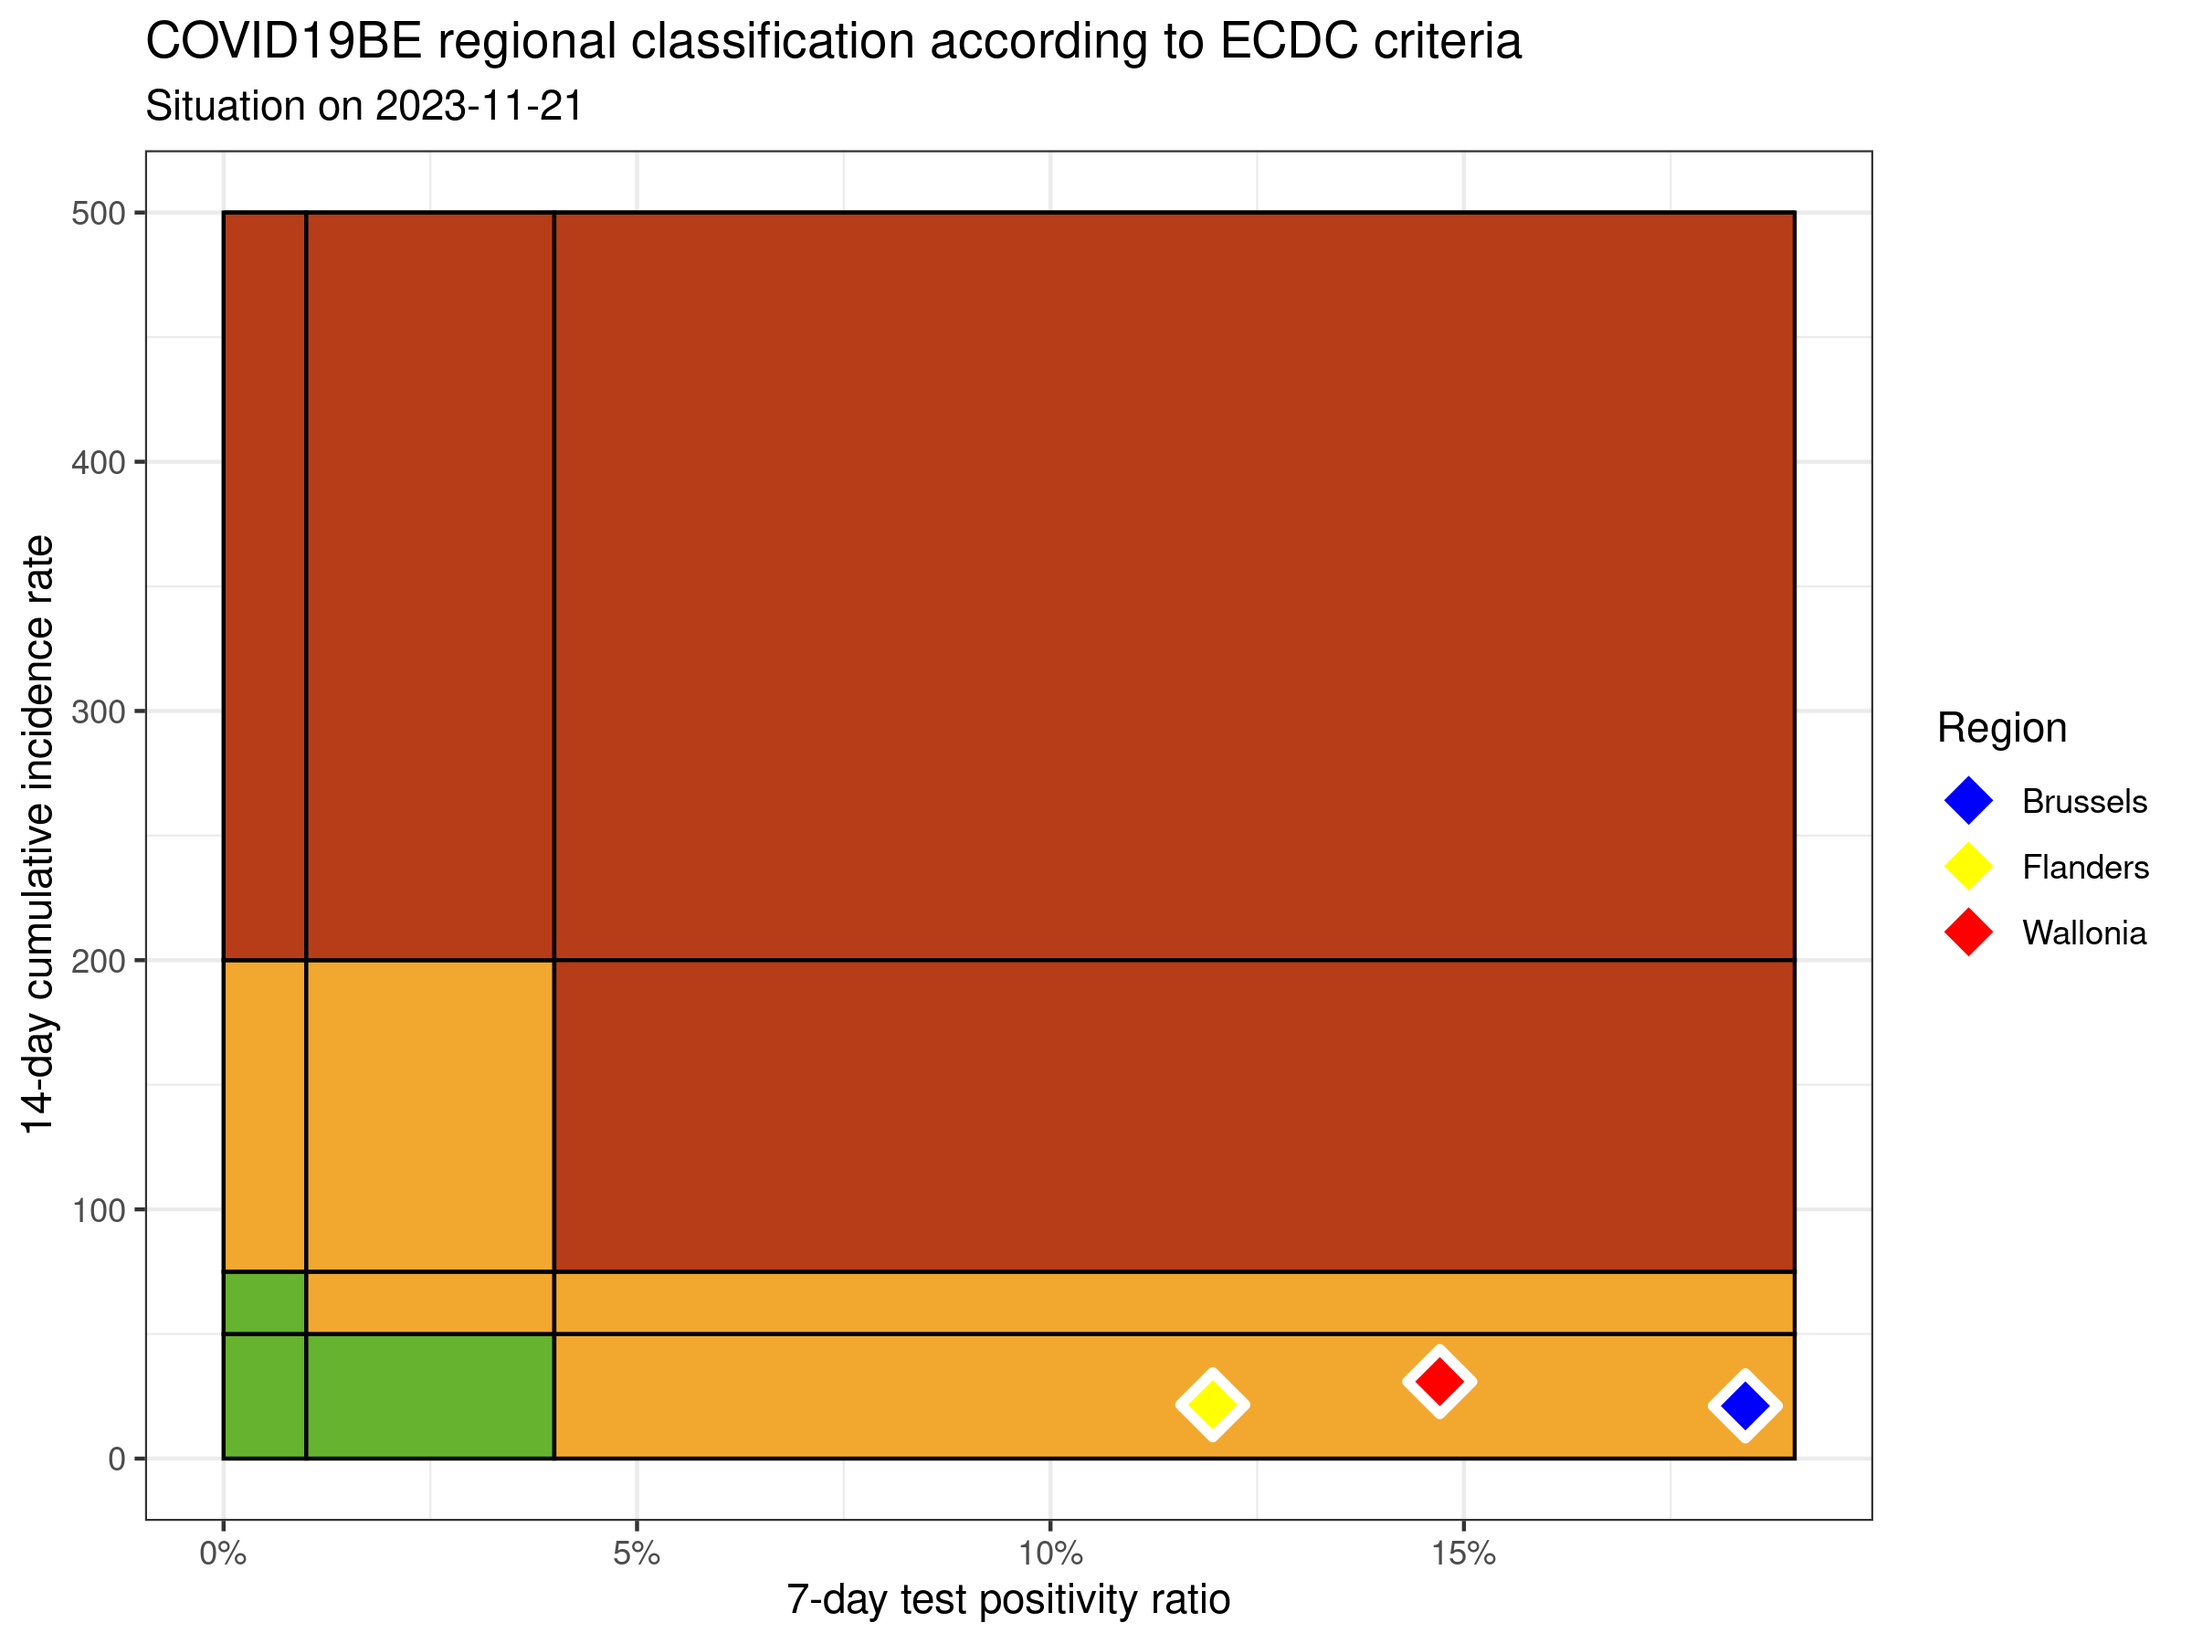
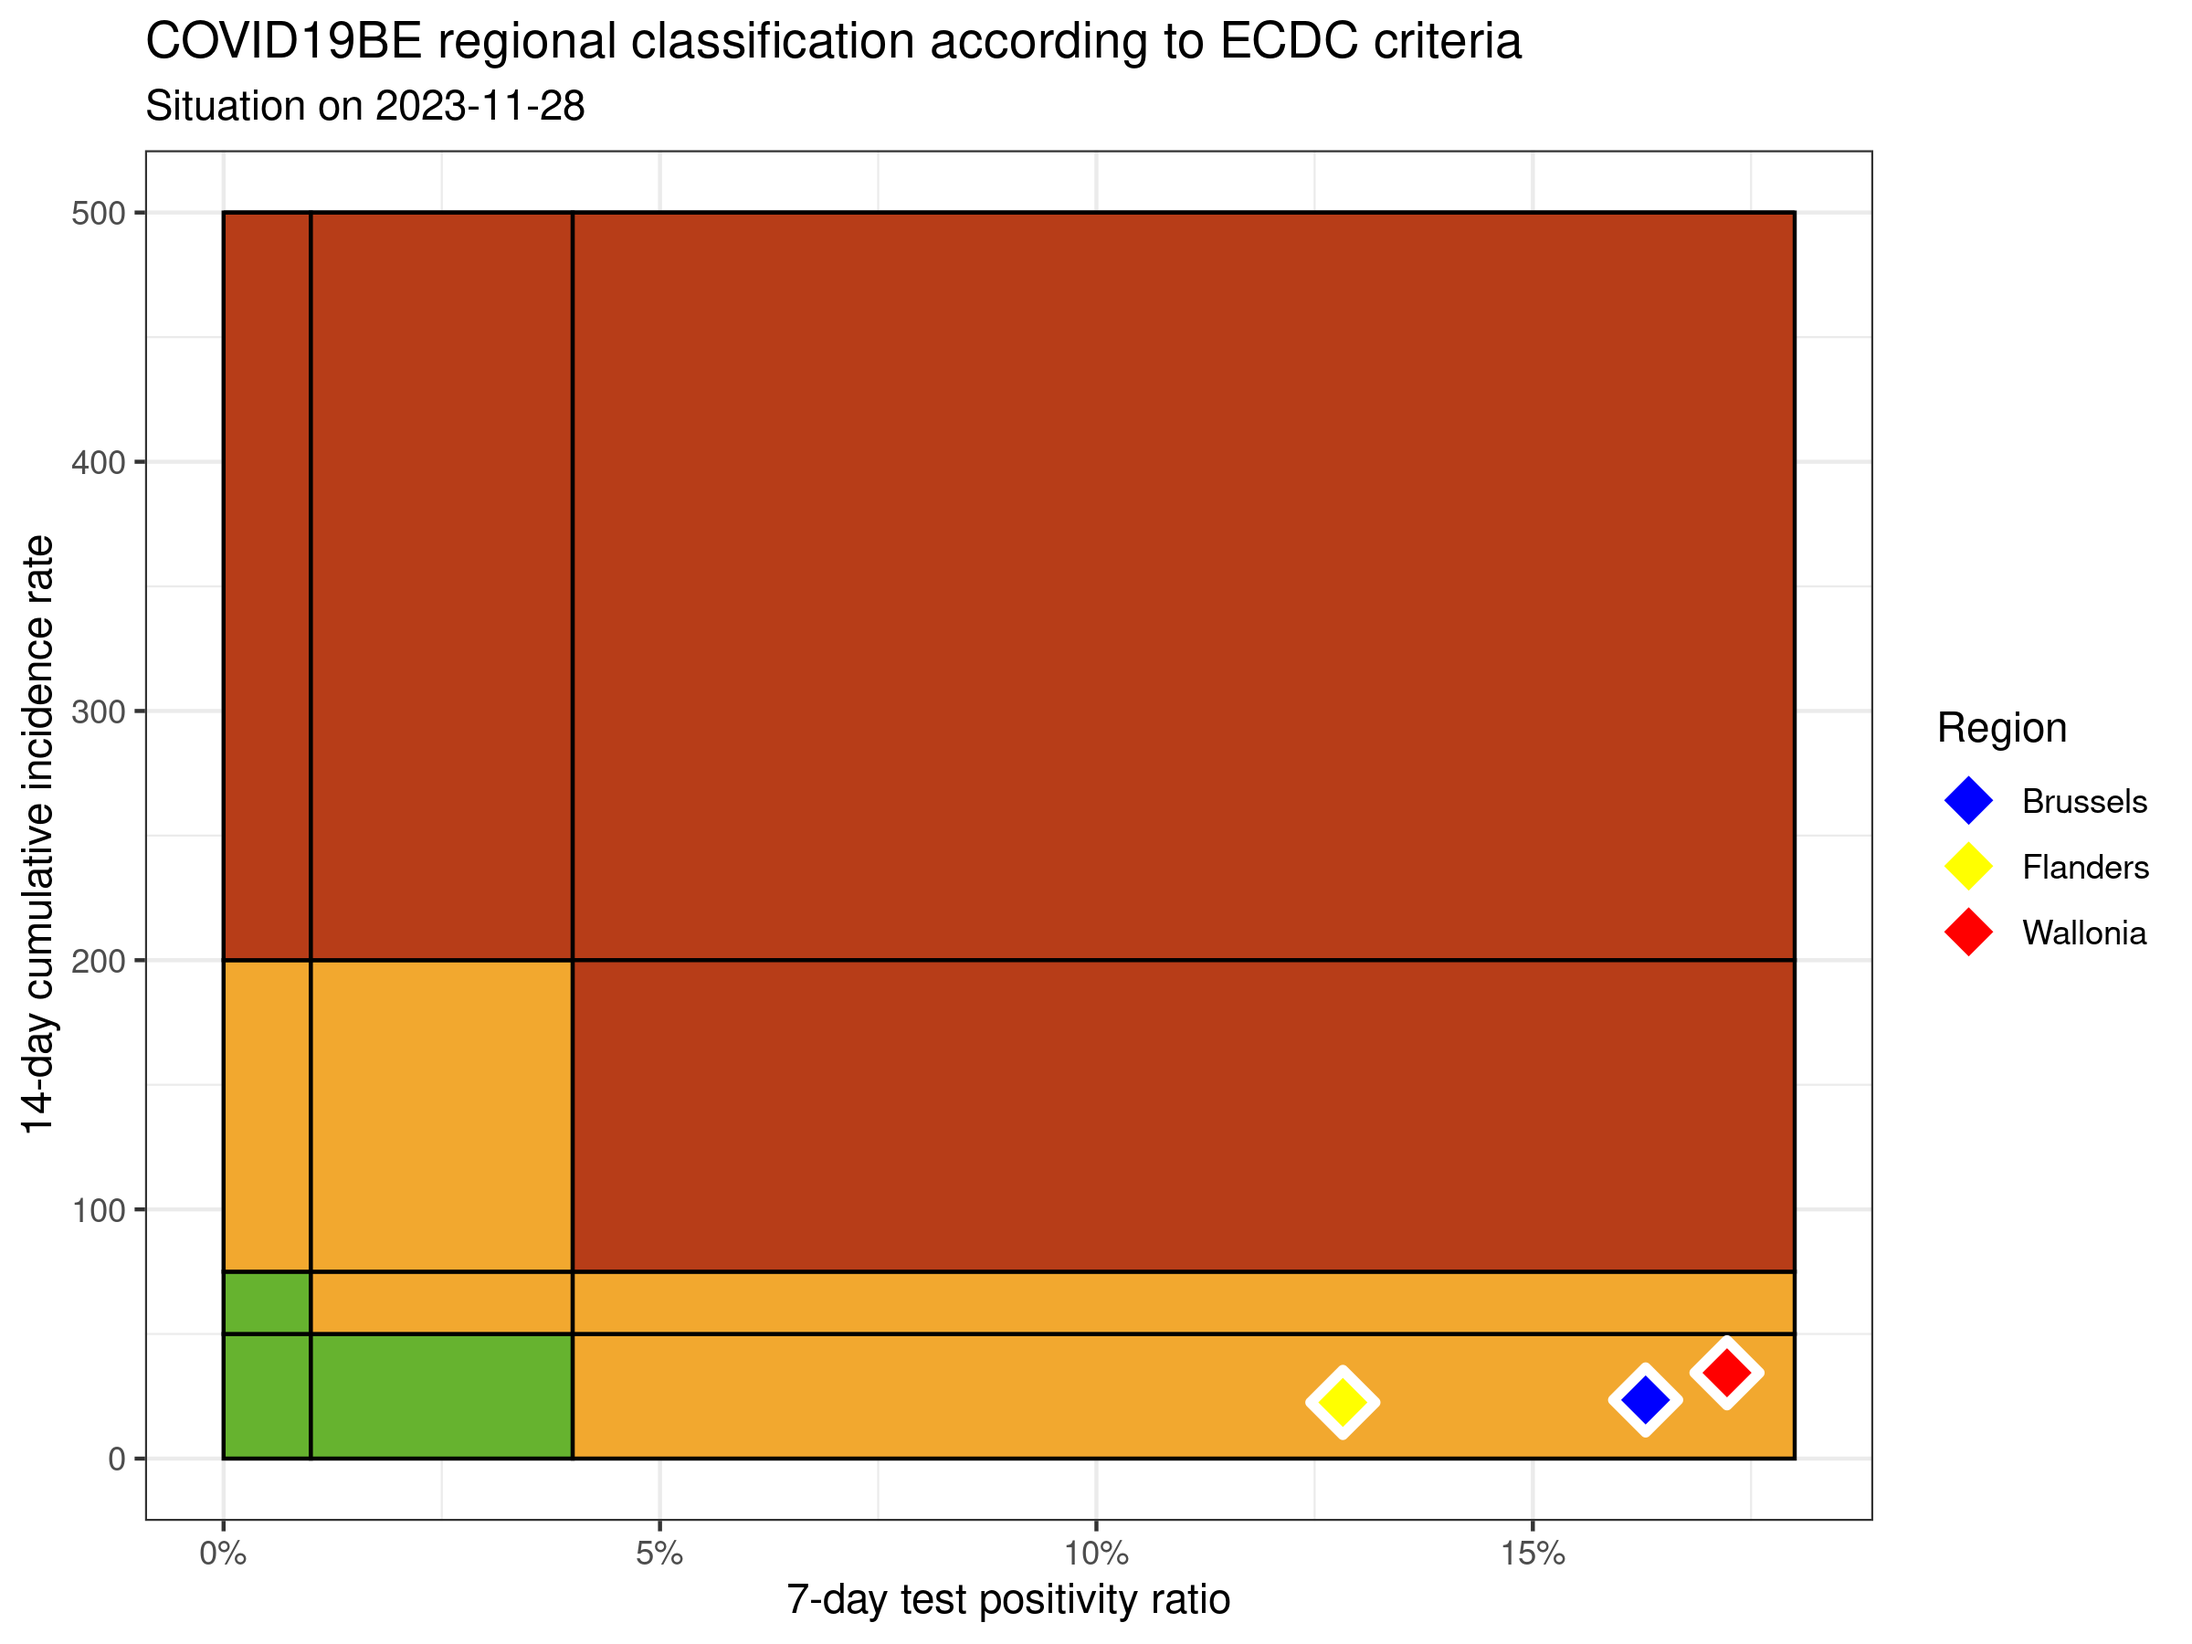
update situation

diff --git a/ecdc-trend/README.md b/ecdc-trend/README.md
@@ -11,9 +11,9 @@
 
 |          | INC14 | INC7 | TST7 | TST\_POS7 | REGION   |     POP | INC14\_RT |       PR7 |          GR |
 | :------- | ----: | ---: | ---: | --------: | :------- | ------: | --------: | --------: | ----------: |
-| Brussels |   258 |  151 |  902 |       166 | Brussels | 1219970 |  21.14806 | 0.1840355 |   0.4112150 |
-| Flanders |  1438 |  688 | 7256 |       868 | Flanders | 6653062 |  21.61411 | 0.1196251 | \-0.0826667 |
-| Wallonia |  1127 |  580 | 4433 |       652 | Wallonia | 3648206 |  30.89190 | 0.1470787 |   0.0603291 |
+| Brussels |   287 |  135 |  890 |       145 | Brussels | 1219970 |  23.52517 | 0.1629213 | \-0.1118421 |
+| Flanders |  1499 |  808 | 7455 |       956 | Flanders | 6653062 |  22.53098 | 0.1282361 |   0.1693198 |
+| Wallonia |  1256 |  676 | 4720 |       813 | Wallonia | 3648206 |  34.42788 | 0.1722458 |   0.1655172 |
 
 ### Read more
 
